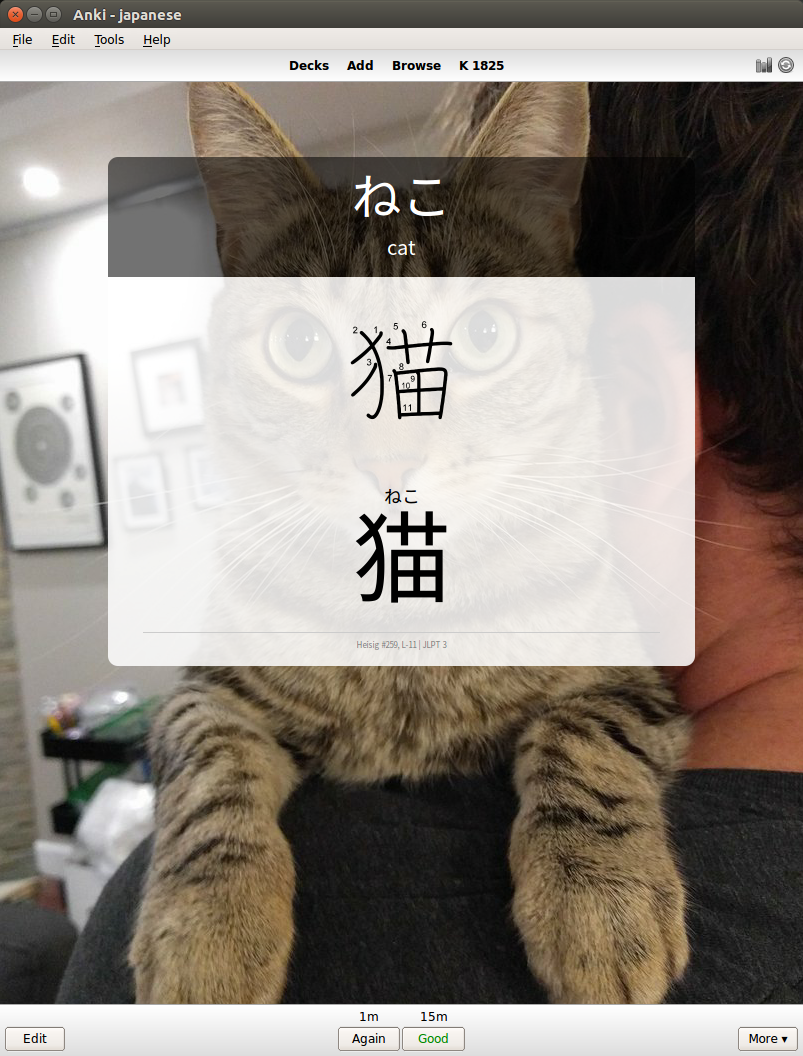
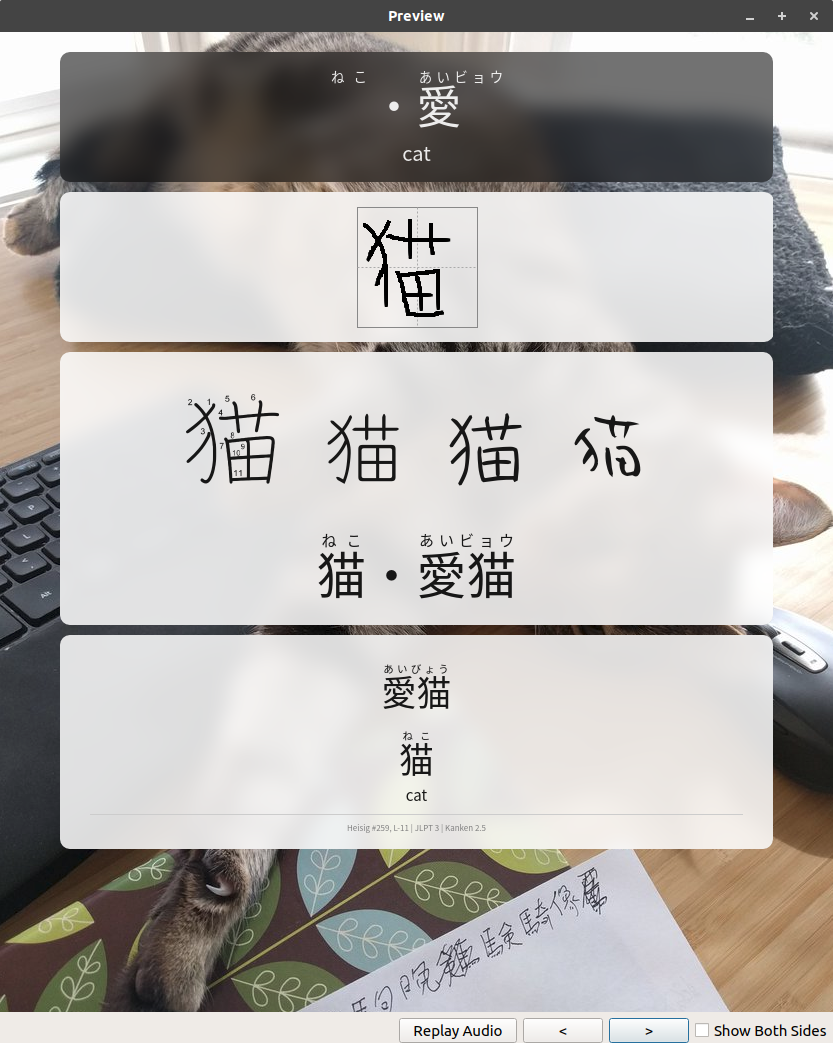
javascript whiteboard for writing practice! also oops i forgot to update the html when i changed it last time.

diff --git a/js/_whiteboard.js b/js/_whiteboard.js
@@ -1,0 +1,82 @@
+
+window.setTimeout(function() {
+    let gridThickness = 1;
+    let gridDashColor = '#aaa';
+    let gridBoxColor = '#888';
+    let rectSize = 120;
+    let drawWidth = 3;
+    let drawStroke = 'black';
+
+    class Whiteboard {
+      constructor(container) {
+        this.drawing = false;
+        this.canvas = document.createElement('canvas');
+        this.ctx = this.canvas.getContext("2d");
+        this.canvas.addEventListener('mousedown', (e) => this.startDrawing(e));
+        this.canvas.addEventListener('mousemove', (e) => this.draw(e));
+        window.addEventListener('mouseup', (e) => this.stopDrawing(e));
+        this.bindToContainer(container);
+      }
+
+      bindToContainer(container) {
+        this.canvas.width = container.clientWidth;
+        this.canvas.height = container.clientHeight;
+        this.ctx.lineWidth = gridThickness;
+        let startX = ((this.canvas.width - rectSize) >> 1) + 0.5;
+        let startY = ((this.canvas.height - rectSize) >> 1) + 0.5;
+        this.ctx.strokeStyle = gridBoxColor;
+        this.ctx.strokeRect(startX, startY, rectSize, rectSize);
+        this.ctx.strokeStyle = gridDashColor;
+        this.ctx.setLineDash([2,2]);
+        this.ctx.beginPath();
+        this.ctx.moveTo(startX, startY + (rectSize>>1));
+        this.ctx.lineTo(startX + rectSize, startY + (rectSize>>1));
+        this.ctx.stroke();
+        this.ctx.beginPath();
+        this.ctx.moveTo(startX + (rectSize>>1), startY);
+        this.ctx.lineTo(startX + (rectSize>>1), startY+rectSize);
+        this.ctx.stroke();
+
+        this.ctx.strokeStyle = drawStroke;
+        this.ctx.lineWidth = drawWidth;
+        this.ctx.setLineDash([]);
+        container.appendChild(this.canvas);
+        this.saveImageData();
+      }
+
+      getCoords(e) {
+        let bbox = this.canvas.getBoundingClientRect();
+        let top = bbox.top + document.body.scrollTop;
+        let left = bbox.left + document.body.scrollLeft;
+        return {x: e.clientX - left, y: e.clientY - top};
+      }
+
+      startDrawing(e) {
+        let coords = this.getCoords(e);
+        this.drawing = true;
+        this.ctx.beginPath();
+        this.ctx.moveTo(coords.x, coords.y);
+      }
+
+      draw(e) {
+        if (!this.drawing)
+          return;
+        let coords = this.getCoords(e);
+        this.ctx.lineTo(coords.x, coords.y);
+        this.ctx.stroke();
+      }
+
+      stopDrawing(e) {
+        this.drawing = false;
+        this.ctx.closePath();
+        this.saveImageData();
+      }
+
+      saveImageData() {
+        this.imageData = this.ctx.getImageData(0, 0, this.canvas.width, this.canvas.height);
+      }
+    };
+
+    window.whiteboard = new Whiteboard(document.getElementById('whiteboard-container'));
+}, 0);
+

diff --git a/style/key-kanji-back.html b/style/key-kanji-back.html
@@ -1,35 +1,46 @@
-<<div class=blurred-bg>
+<div class=blurred-bg>
 	<div class=frontbg>
- 		{{Japanese Keywords Prompt}} 
-		<div class=engkeyword>
-			{{English Keyword}}
+		<div class=key>
+ 			{{furigana:Japanese Keywords Furigana}}
 		</div>
+		<div class=engkeyword>
+			<div class={{Keyword Familiarity}}>
+				<span>
+					{{English Keyword}}
+				</span>
+			</div>
+		</div> 
+	</div> 
+</div>
+
+<div class="blurred-bg">
+	<div class="backbg" id="whiteboard-container">
+		<canvas id="whiteboard"></canvas>
 	</div>
+</div>
 
+<div class=blurred-bg>
 	 <div class=backbg>
-
 		<span class=strokeorder>
 			{{Kanji}}
 		</span>
-
-		<div class=jpnkeyword> 		 
-			{{furigana:Japanese Keywords Furigana}}
+		<span class=cute>
+			{{Kanji}}
+		</span>
+		<span class=neat>
+			{{Kanji}}
+		</span>
+		<span class=messy>
+			{{Kanji}}
+		</span>
+		<div class=jpnkeyword>
+ 			{{furigana:Japanese Keywords Furigana}} 
 		</div>
+	</div>
+</div>
 
-		<div>
-			<span class=neat>
-				{{Kanji}}
-			</span>
-			<span class=cute>
-				{{Kanji}}
-			</span>
-			<span class=messy>
-				{{Kanji}}
-			</span>
-		</div>
-
-		<hr> 
-
+<div class=blurred-bg>
+	<div class=backbg>
 		<div class=examples>
 			{{furigana:Joyo On (Furigana)}}
 		</div>
@@ -50,5 +61,7 @@
 	</div>
 </div>
 
-<script type="text/javascript" src="_background-picker.js">
-</script>
+<script type="text/javascript" src="_whiteboard_answer.js"></script>
+
+<script type="text/javascript" src="_background-picker.js"></script>
+

diff --git a/js/background-picker.js b/js/background-picker.js
@@ -1,6 +1,8 @@
 function pickBackground() {                                     
     var backgroundsArray = ["blackGateYushimaSeidoTokyo", "booksJimbocho", "bookstoreJimbocho", "bridgeShinjukuGyoen", "capacitorsAkihabara", "catMangaIkebukuro", "coinsGinkakujiKyoto", "craneStacksZeniariKamakura", "crowdedBridgeRikugienTokyo", "crowdedSkylineKiyomizudera", "crowdRikugienTokyo", "darumaPikachuPokecenter", "distantLanternsYasakaKyoto", "entryZeniariKamakura", "foxCeramicsInariKamakura", "geometricKiyomizuderaKyoto", "ginkakujiStairsKyoto", "gyozaIkebukuro", "lanternAsakusa", "lanternShinjukuGyoen", "lanternsYasakaKyoto", "leavesKyoto", "metallicMeijiJingu", "mossKyoto", "nightAlleyIkebukuro", "nishikiKyoto", "philosophersPathKyoto", "planarLeavesYoyogi", "redLeavesShinjukuGyoen", "sakeMeijiJingu", "signsAkihabara", "skylineKoshikawaTokyo", "stairsKiyomizudera", "stoptakingselfiesAsakusa", "sunsetEnoshima", "traditionalStreetKyoto", "triforceEngakujiKamakura", "trunkRikugienTokyo", "tsukemonoNukadokoNishikiKyoto", "wallYasakaKyoto", "woodblockAsakusa", "yellowLeavesRikugienTokyo", "yellowLeavesYoyogi"];
 
+    //var backgroundsArray = ["picoBackground"]
+
     var numBackgrounds = backgroundsArray.length;            
                                                                 
     //returns time in milliseconds, so to get it to the actual number i want, divide by 1000*1000

diff --git a/style/key-kanji-front.html b/style/key-kanji-front.html
@@ -1,15 +1,22 @@
 <div class=blurred-bg>
 	<div class=frontbg>
- 		{{Japanese Keywords Prompt}} 
+		<div class=key>
+ 			{{furigana:Japanese Keywords Furigana}}
+		</div>
 		<div class=engkeyword>
 			<div class={{Keyword Familiarity}}>
 				<span>
 					{{English Keyword}}
 				</span>
 			</div>
-		 </div> 
+		</div> 
 	</div> 
 </div>
 
-<script type="text/javascript" src="_background-picker.js">
-</script>
+<div class="blurred-bg">
+	<div class="backbg" id="whiteboard-container">
+	</div>
+</div>
+
+<script type="text/javascript" src="_whiteboard.js"></script>
+<script type="text/javascript" src="_background-picker.js"></script>

diff --git a/style/kanji-key.css b/style/kanji-key.css
@@ -116,8 +116,29 @@ ruby rb {
 }
 
 /*styling for individual fields*/
+
+.key {
+    font-size: 45px;
+}
+
+/* in the field used for the prompt, the target kanji is wrapped up in <span class='target'></span>
+ * so on the front of the card, the target is hidden; on the back, visible
+ * */
+.key .target{
+    visibility: hidden;
+}
+
+#whiteboard-container{
+	cursor: crosshair;
+	padding: 0;
+	height: 150px;
+}
+
+.backbg #whiteboard-container {
+	margin-left: -30px; /* kind of a hack... */
+}
+
 .prompt {
-    font-weight: bolder;
 }
 
 .engkeyword {

diff --git a/style/kanji-key-back.html b/style/kanji-key-back.html
@@ -4,16 +4,19 @@
 			{{Kanji}}
 		</div>
 	</div>
+</div>
+<div class=blurred-bg>
 	 <div class=backbg>
 		<div class=jpnkeyword>
 			{{furigana:Japanese Keywords Furigana}}
 		</div>
-
 		<div class=engkeyword>
 			{{English Keyword}}
 		</div>
-		<hr> 
-
+	</div>
+</div>
+<div class=blurred-bg>
+	 <div class=backbg>
 		<div class=examples>
 			{{furigana:Joyo On (Furigana)}}
 		</div>
@@ -36,3 +39,4 @@
 
 <script type="text/javascript" src="_background-picker.js">
 </script>
+

diff --git a/js/_whiteboard_answer.js b/js/_whiteboard_answer.js
@@ -1,0 +1,7 @@
+window.setTimeout(function() {
+	let data = window.whiteboard.imageData;
+	let canvas = document.getElementById('whiteboard');
+	canvas.width = window.whiteboard.canvas.width;
+	canvas.height = window.whiteboard.canvas.height;
+	canvas.getContext('2d').putImageData(data, 0, 0);
+}, 0);
